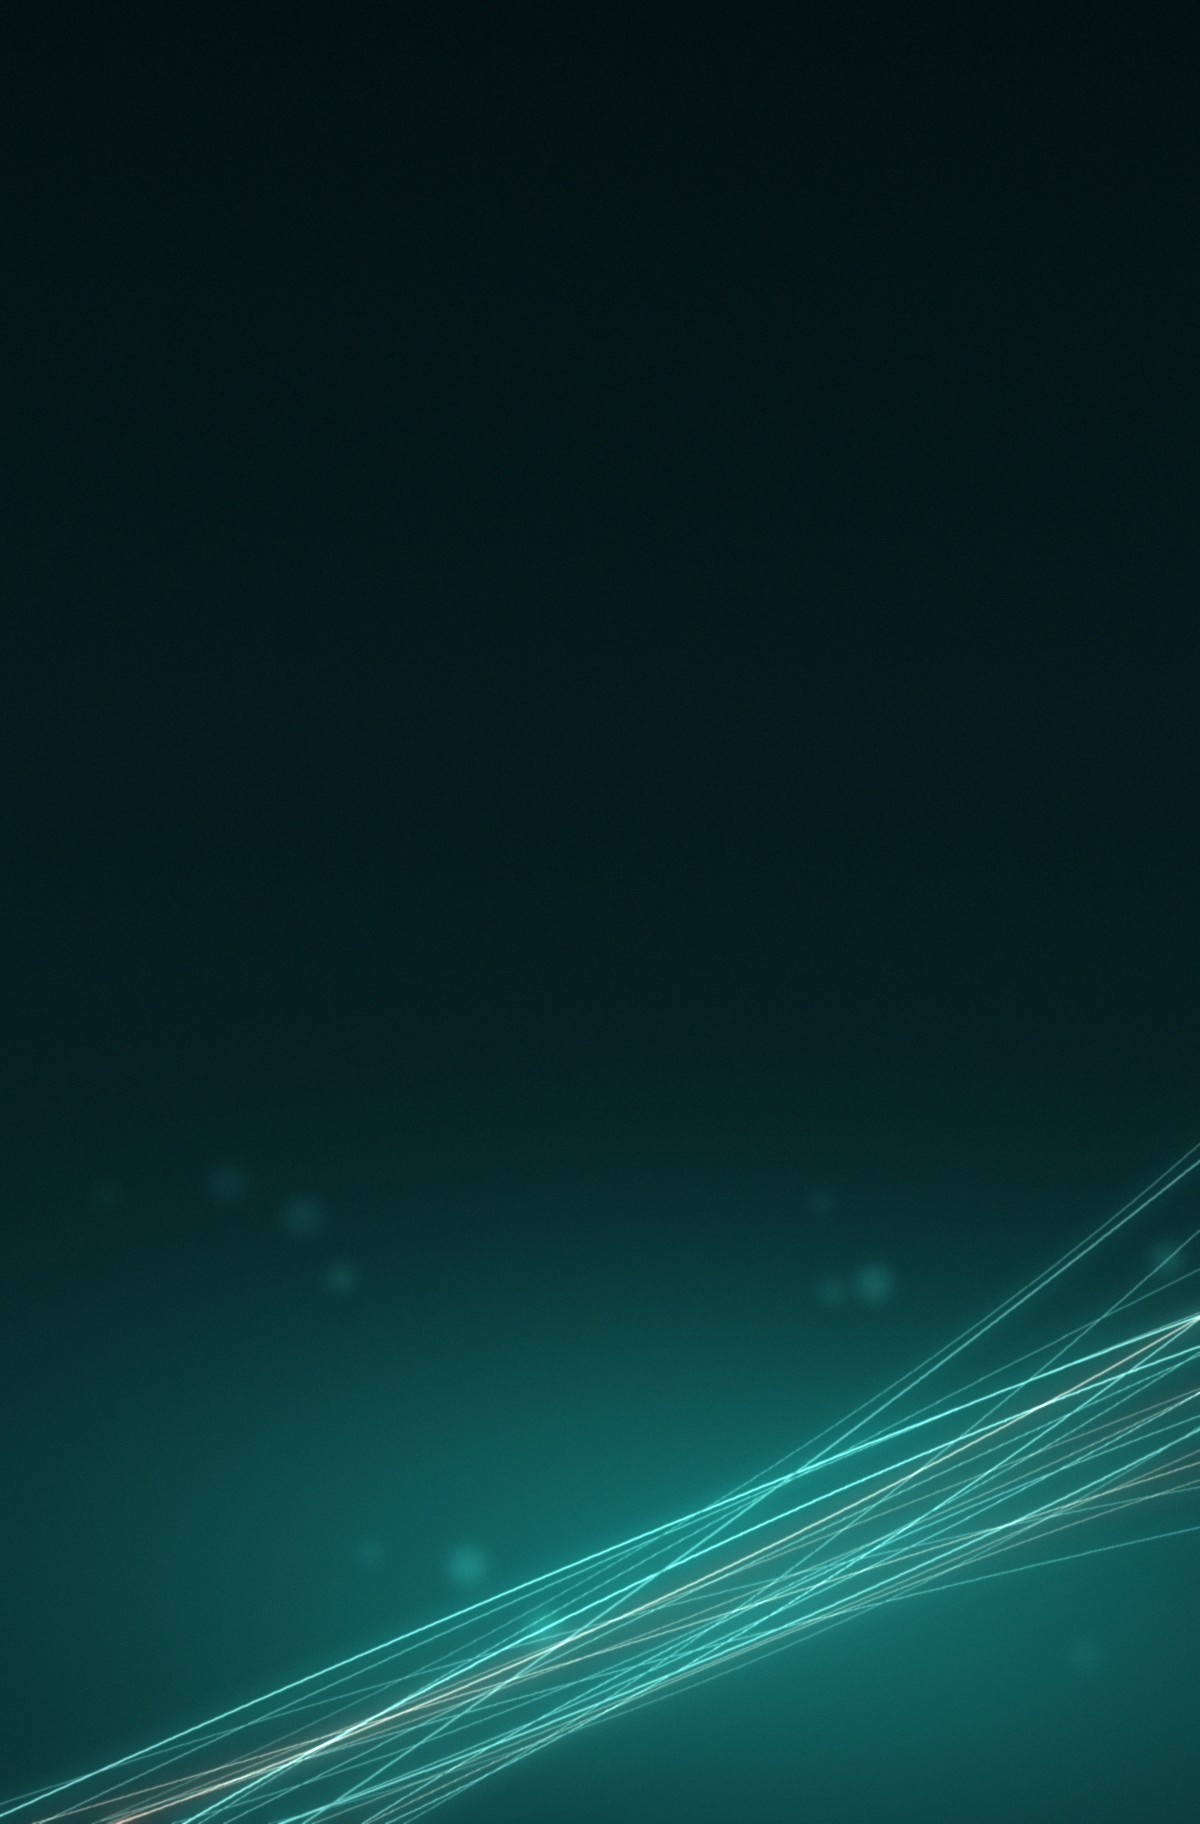
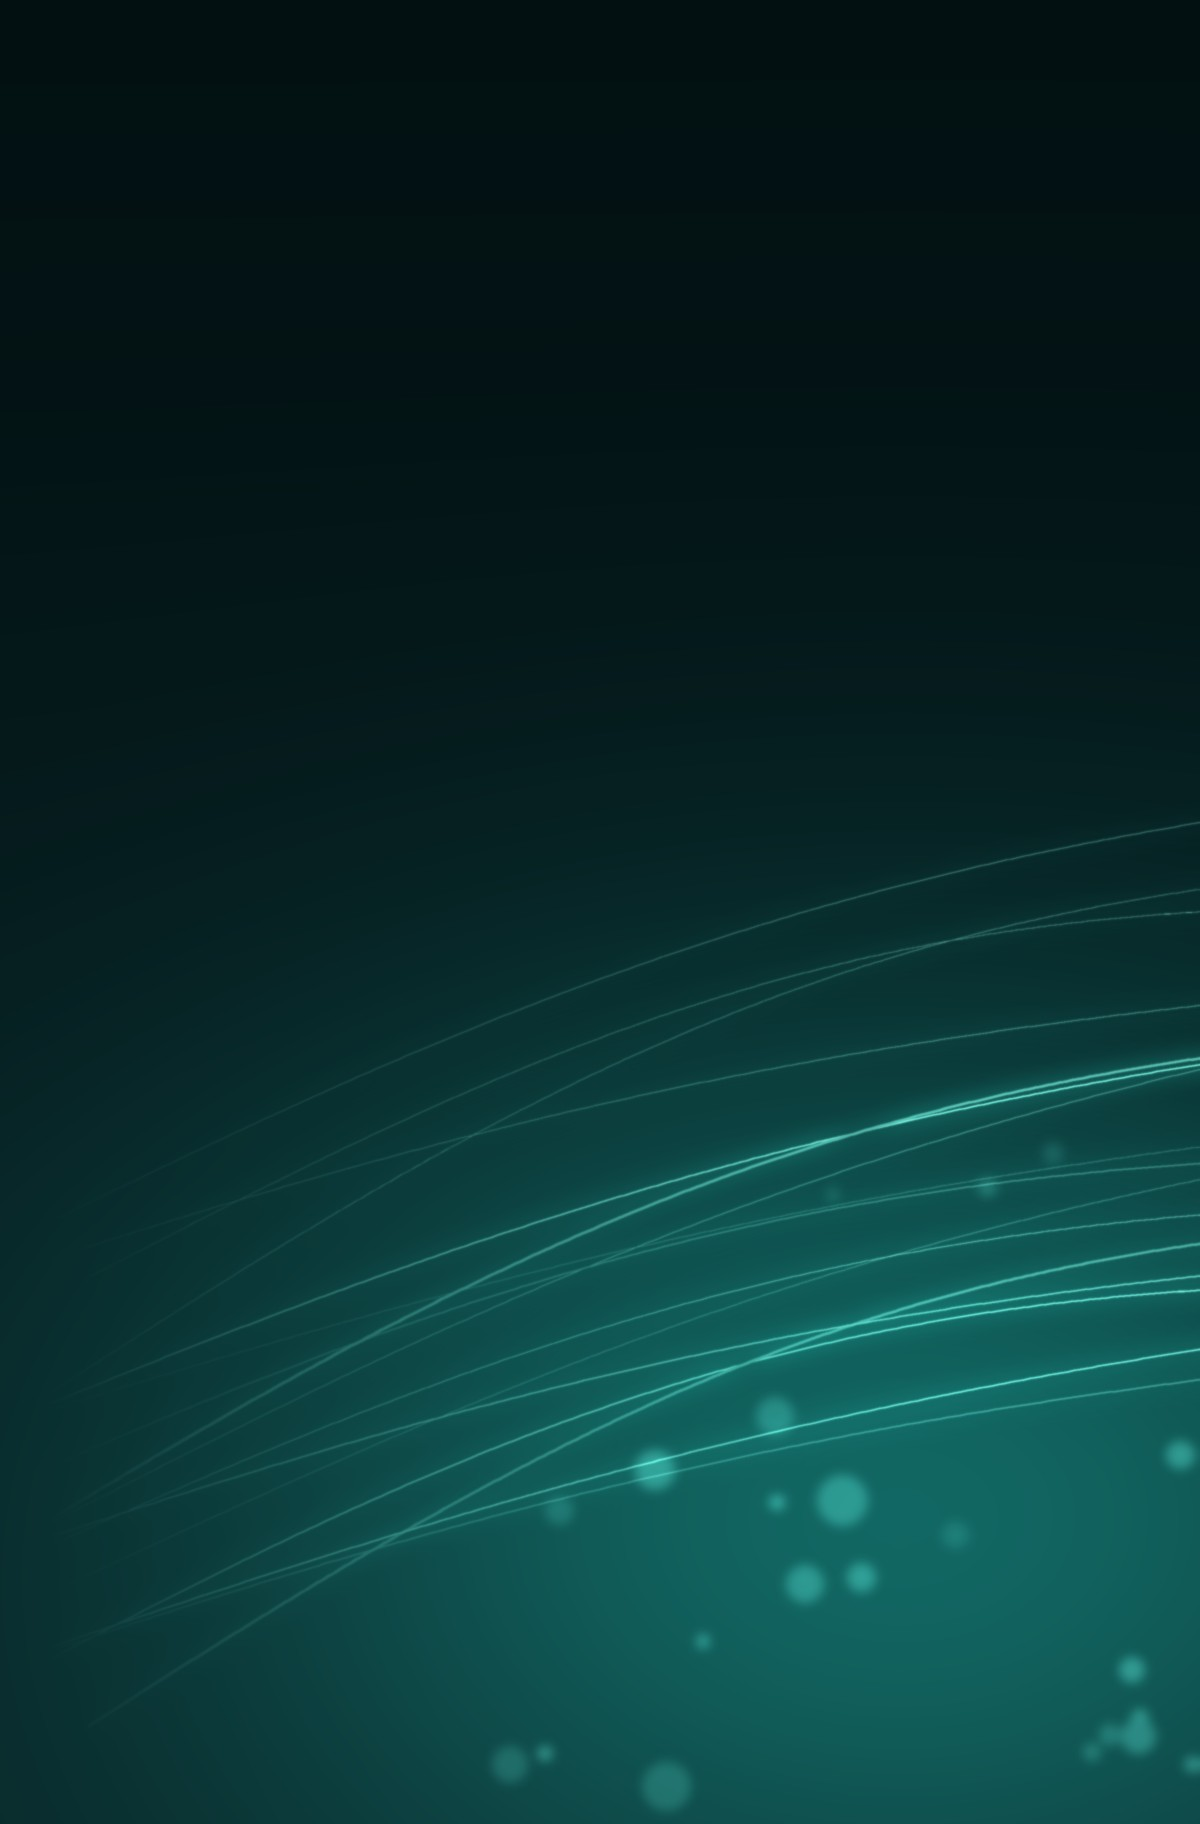
교통 표지 배경 차분하게(가는 빛 궤적·빛망울), 교통 설명지 그라데이션 밝게
Claude-Session: https://claude.ai/code/session_01HHKdg3bN9XkGYkxmMGVSyX

diff --git a/template/player_clip.src.html b/template/player_clip.src.html
@@ -28,7 +28,7 @@
   .bg-w-rain{background:linear-gradient(180deg,#151c2a 0%,#25303f 40%,#3a4656 70%,#4c5868 100%)}
   .bg-w-snow{background:linear-gradient(180deg,#1a2848 0%,#33496f 40%,#5c7699 72%,#7e95b5 100%)}
   .bg-sky{background:linear-gradient(180deg,#1b2f52 0%,#2c3f63 34%,#4d5a78 60%,#7d6a6a 82%,#4a3a3a 100%)}
-  .bg-green{background:radial-gradient(70% 40% at 80% 85%,rgba(60,220,170,.22),transparent 70%),linear-gradient(180deg,#0b3a33 0%,#0a2c28 55%,#06201d 100%)}
+  .bg-green{background:radial-gradient(90% 45% at 80% 92%,rgba(80,230,195,.38),transparent 70%),radial-gradient(70% 35% at 10% 0%,rgba(40,160,140,.22),transparent 70%),linear-gradient(180deg,#0a2f2b 0%,#0d4740 45%,#11685b 78%,#178a74 100%)}
   .bg-brand{background:#06132b url(/*EARTH*/) center bottom/cover no-repeat}
   /* 헤더: 로고는 원본 비율 그대로(가로·세로 비율 고정) */
   .logo{position:absolute;left:56px;top:76px;height:54px;width:auto;display:block;z-index:3}
@@ -229,7 +229,7 @@ CL.traffic={bg:'bg-green',ok:()=>{const T=DATA.traffic;if(!T)return false;if(!T.
       <div class="pb" style="top:430px"><div class="k" style="margin-bottom:26px">구간별 속도</div>${segs.map(seg).join('')}</div>
       ${cg?`<div class="hr" style="left:56px;width:1092px;top:1395px"></div>
       <div class="pa" style="top:1430px;display:flex;align-items:center;gap:22px;width:1092px">${icon('people',84,3)}<span style="font-size:48px;font-weight:700">역삼역 일대 혼잡도</span></div>
-      <div class="pb" style="top:1430px;text-align:right;font-size:72px;font-weight:900;color:${cgc};line-height:1.1">${cg}</div>`:''}`;
+      <div class="pb" style="top:1430px;text-align:right;font-size:72px;font-weight:900;color:${cgc};line-height:1.1;text-shadow:0 2px 14px rgba(0,0,0,.55)">${cg}</div>`:''}`;
   }};
 /* 데이터가 없을 때: 브랜드 화면 */
 CL.brand={bg:'bg-brand',ok:()=>true,src:()=>'',html:()=>`<div class="pa" style="top:560px"><div class="num" id="bigtime" style="font-size:190px;font-weight:800;letter-spacing:-.03em;text-shadow:0 0 28px rgba(140,190,255,.7)"></div>
